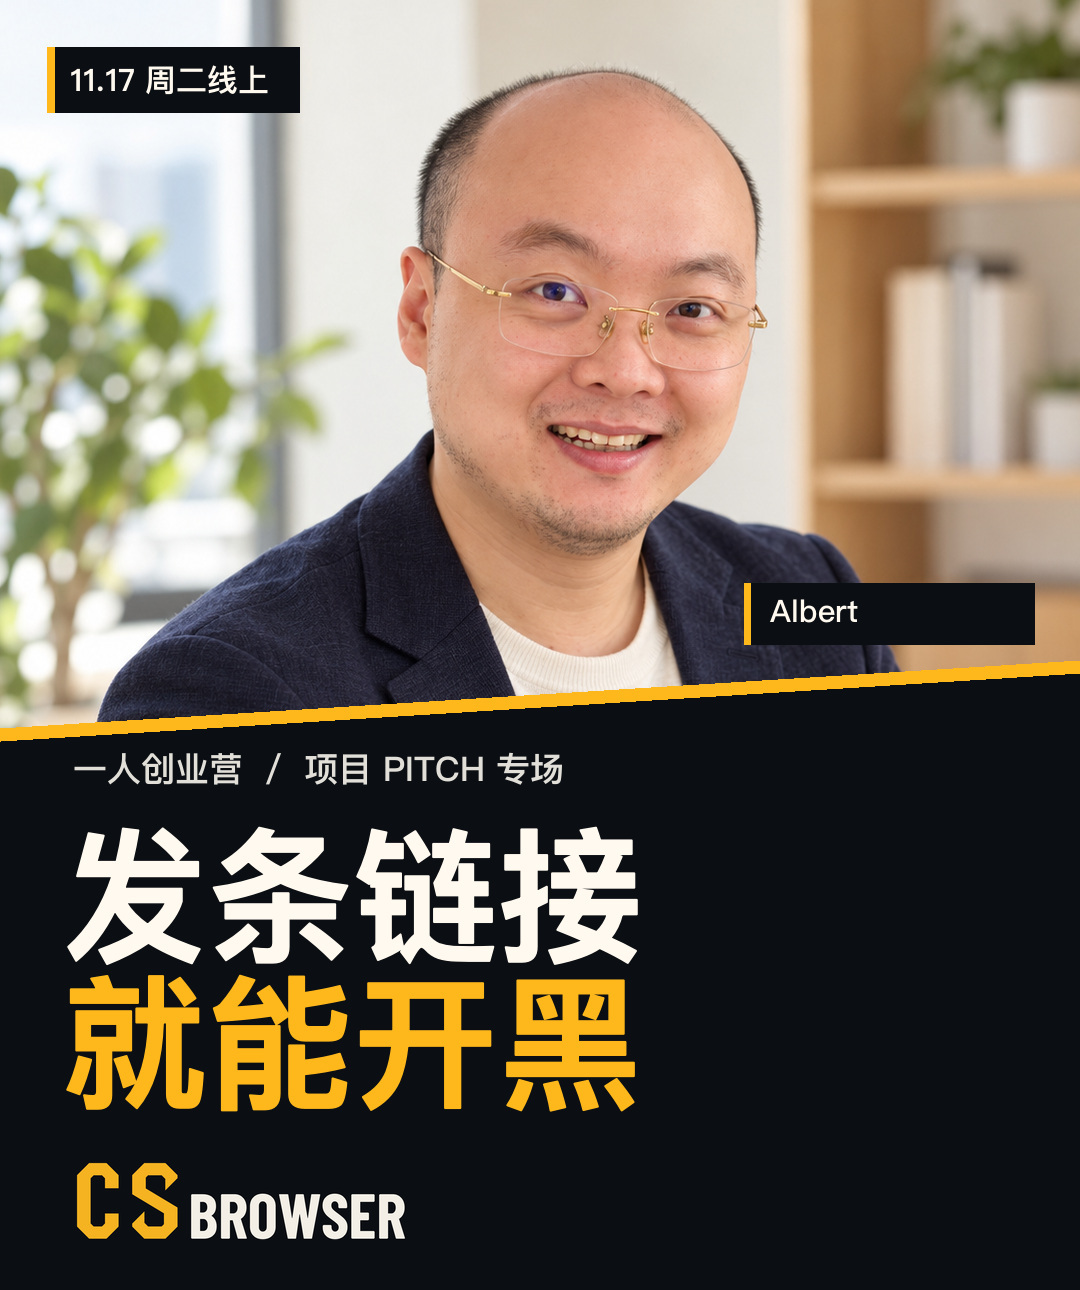
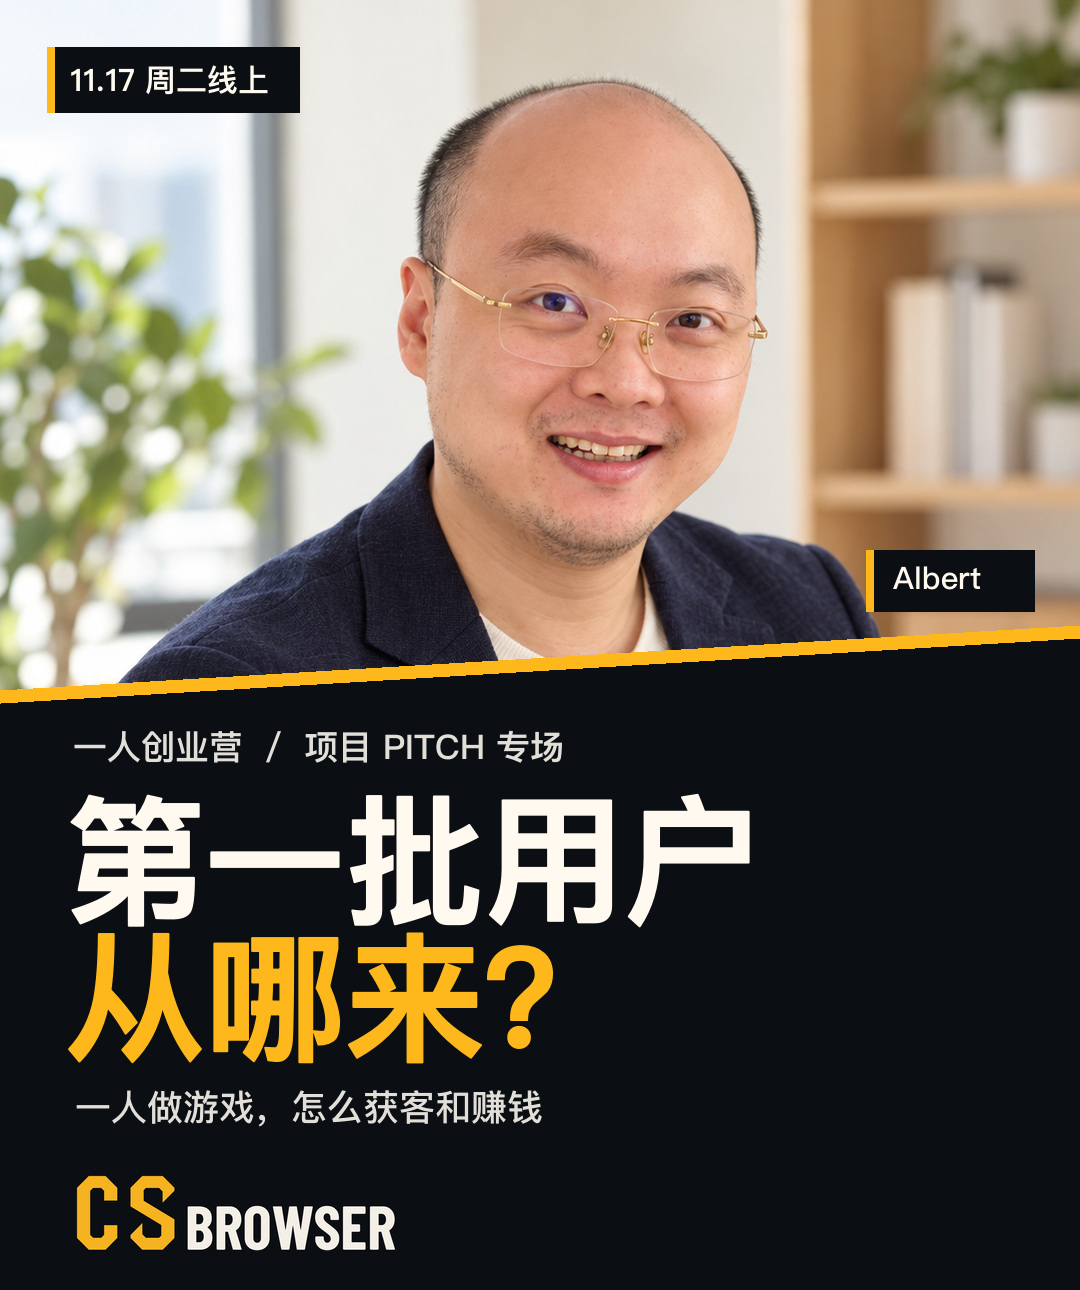
Reframe the CSBrowser article around acquisition and monetization

diff --git a/wechat/csbrowser-opc-pitch-2026-11/index.html b/wechat/csbrowser-opc-pitch-2026-11/index.html
@@ -17,13 +17,13 @@
   </header>
   <main>
     <section class="publish-fields" aria-label="公众号发布字段">
-      <h1 id="article-title">你点一下就能开黑，他提交了近 300 次代码</h1>
+      <h1 id="article-title">用 AI 做出一款游戏，第一批用户从哪来？</h1>
       <button type="button" class="text-button" data-copy="article-title">复制标题</button>
-      <p id="article-summary">没买广告，上线后约 19 天录得 14,777 次会话。接下来，Albert 想试主播联动和排位赛。</p>
+      <p id="article-summary">没买广告，约 19 天录得 14,777 次会话。自然搜索带来了人，这款游戏又打算靠什么赚钱？</p>
       <button type="button" class="text-button" data-copy="article-summary">复制摘要</button>
       <p class="field-links">
         <a href="assets/cover-wide.jpg?v=albert" download>下载横版封面</a>
-        <a href="assets/cover-portrait.jpg?v=albert" download>下载竖版封面</a>
+        <a href="assets/cover-portrait.jpg?v=first-users" download>下载竖版封面</a>
         <a href="https://jracademy.ai/events/6adf13c703f9f9e30beea96b">活动报名页</a>
         <a href="https://playcsbrowser.com/">项目 Demo</a>
       </p>
@@ -32,44 +32,43 @@
 
     <article id="article" aria-label="公众号正文预览">
       <section style="color:#222222;font-size:16px;line-height:1.85;letter-spacing:0.3px;overflow-wrap:break-word;">
-        <p style="margin:0 0 14px;">群里刚喊完「来一把」，就有人问下哪个客户端，还有人手上只有手机。游戏还没开，队伍已经快散了。</p>
-        <p style="margin:0 0 14px;">Albert做了个网页。<strong>房间链接往群里一发，电脑、手机点开就能进同一局。</strong>不用装客户端，也不用注册账号。</p>
-        <p style="margin:0 0 20px;">这款游戏叫 <strong>CSBrowser</strong>。背后没有一支游戏开发团队。负责把它上线的，是Albert和他调度的多个 AI 编码代理。</p>
+        <p style="margin:0 0 14px;">用 AI 做出一个产品，按下发布键。第二天打开后台，<strong>第一批用户从哪来？</strong></p>
+        <p style="margin:0 0 14px;">Albert 做了一款叫 <strong>CSBrowser</strong> 的联机游戏。没买广告，上线后的首个约 19 天，GA4 记下了 <strong>14,777 次会话</strong>。最大的流量来源是自然搜索。</p>
+        <p style="margin:0 0 20px;">有人搜到，有人点开。接下来，游戏要怎么让他们回来打第二局？等真有了回头客，又能靠什么赚钱？</p>
 
-        <p style="margin:0 0 24px;text-align:center;"><img src="assets/cover-wide.jpg?v=albert" width="1410" height="600" alt="发条链接就能开黑。11 月 17 日 CSBrowser 项目 Pitch" style="display:block;width:100%;max-width:100%;height:auto;"></p>
+        <p style="margin:0 0 24px;text-align:center;"><img src="assets/cover-wide.jpg?v=first-users" width="1410" height="600" alt="第一批用户从哪来？11 月 17 日 CSBrowser 项目 Pitch" style="display:block;width:100%;max-width:100%;height:auto;"></p>
 
-        <h2 style="margin:30px 0 15px;color:#161616;font-size:22px;line-height:1.45;font-weight:700;border-left:4px solid #db980d;padding-left:12px;">一条房间链接，从群聊发到直播间</h2>
-        <p style="margin:0 0 14px;">一个朋友用 Windows，一个用 Mac，还有人只有手机。原本要先问「你能玩吗」，现在只需要把自己的房间链接发过去。Linux 上也能玩。</p>
-        <p style="margin:0 0 18px;">把群聊换成直播间，这条链接还有另一种用法。主播发房间链接，观众就有机会从看直播变成和主播打一局。这是Albert接下来想试的增长方式。</p>
-        <p style="margin:0 0 7px;text-align:center;"><img src="assets/gameplay.jpg" width="1200" height="675" alt="CSBrowser 游戏实机画面" style="display:block;width:100%;max-width:100%;height:auto;"></p>
-        <p style="margin:0 0 25px;color:#626262;font-size:13px;text-align:center;">CSBrowser 实机画面 · 项目官网</p>
-
-        <h2 style="margin:30px 0 15px;color:#161616;font-size:22px;line-height:1.45;font-weight:700;border-left:4px solid #db980d;padding-left:12px;">多个 AI 同时写代码，谁来验收？</h2>
-        <p style="margin:0 0 14px;">一条邀请链接发出去，房间要开得起来，手机和电脑要能连进同一局，打完还得能看录像。这几件事得接得上。</p>
-        <p style="margin:0 0 14px;">做过十多年 Web 全栈开发的Albert，把任务拆给多个 AI 编码代理并行做，再组织交叉审查和自动化测试。做出联机、邀请、录像的主体功能，约一个月里留下了 <strong>277 次左右的代码提交</strong>。</p>
-        <p style="margin:0 0 20px;">开房也有个具体的成本选择。服务托管在 Cloudflare，有人要玩时才启动房间，成本随用量走。</p>
-
-        <section style="margin:0 0 26px;padding:16px 18px;background-color:#f6f3eb;text-align:center;">
-          <p style="margin:0 0 9px;"><img src="assets/founder.jpg" width="900" height="1125" alt="CSBrowser 创始人 Albert" style="display:block;width:100%;max-width:220px;height:auto;margin:0 auto;"></p>
-          <p style="margin:0;font-size:15px;font-weight:700;">Albert</p>
-          <p style="margin:0;color:#54504a;font-size:13px;">CSBrowser 创始人 · AI Engineer · 独立开发者</p>
-        </section>
-
-        <h2 style="margin:30px 0 15px;color:#161616;font-size:22px;line-height:1.45;font-weight:700;border-left:4px solid #db980d;padding-left:12px;">搜索带来了人，谁会回来打第二局？</h2>
-        <p style="margin:0 0 14px;">2026 年 10 月 2 日，CSBrowser 公开上线。没做付费投放，自然搜索成了最大流量来源。</p>
+        <h2 style="margin:30px 0 15px;color:#161616;font-size:22px;line-height:1.45;font-weight:700;border-left:4px solid #db980d;padding-left:12px;">第一批访问，从搜索框里来</h2>
+        <p style="margin:0 0 14px;">CSBrowser 在 10 月 2 日公开上线。它解决的是一件小事：朋友想开黑，有人用电脑，有人只有手机。把房间链接发出去，大家打开浏览器就能进同一局，免装客户端，也免注册。</p>
         <section style="margin:0 0 17px;padding:14px 18px;background-color:#fff3d6;border-left:3px solid #db980d;">
           <p style="margin:0 0 3px;"><strong style="font-size:22px;">14,777</strong> 次会话</p>
           <p style="margin:0 0 4px;"><strong style="font-size:22px;">12,308</strong> 个用户标识</p>
           <p style="margin:0;color:#62543a;font-size:13px;">项目方 GA4 数据 · 上线后首个约 19 天统计窗口</p>
         </section>
-        <p style="margin:0 0 14px;">有人搜到游戏、打开网页。接下来要看，他们会不会进房间，打完一局会不会约人再来。</p>
-        <p style="margin:0 0 18px;">Albert计划先试主播联动和排位赛。他也给将来的付费玩法划了条线：<strong>只卖外观，不卖数值。</strong>外观、赛季内容和活动赞助，是他打算逐步验证的收入来源。</p>
-        <p style="margin:0 0 18px;">如果主播房间真热闹起来，一个人怎么管？他还在规划队伍语音、实时翻译和 AI 辅助识别辱骂。</p>
+        <p style="margin:0 0 18px;">这个产品的获客逻辑，可以从一个场景看懂：有人想找个能直接玩的网页游戏，搜到 CSBrowser，点开就能试。接下来值得追的数字，是有多少人真的进了房间、打完了第一局。</p>
+
+        <p style="margin:0 0 7px;text-align:center;"><img src="assets/gameplay.jpg" width="1200" height="675" alt="CSBrowser 游戏实机画面" style="display:block;width:100%;max-width:100%;height:auto;"></p>
+        <p style="margin:0 0 25px;color:#626262;font-size:13px;text-align:center;">CSBrowser 实机画面 · 项目官网</p>
+
+        <h2 style="margin:30px 0 15px;color:#161616;font-size:22px;line-height:1.45;font-weight:700;border-left:4px solid #db980d;padding-left:12px;">让人打完第一局，再给个理由回来</h2>
+        <p style="margin:0 0 14px;">Albert 接下来想试两件事。<strong>主播联动</strong>解决的是谁来拉人开第一局。主播把链接往直播间一发，观众就有机会从看比赛变成和主播同局。</p>
+        <p style="margin:0 0 18px;"><strong>排位赛</strong>则用来验证回访。如果有人打完一局，还想约队友一起冲下一个段位，游戏就有机会从「搜到顺手玩一次」变成「下次还约这儿」。</p>
+
+        <h2 style="margin:30px 0 15px;color:#161616;font-size:22px;line-height:1.45;font-weight:700;border-left:4px solid #db980d;padding-left:12px;">这款游戏，打算靠什么赚钱？</h2>
+        <p style="margin:0 0 14px;">Albert 先看两类人愿不愿意买单。<strong>玩家</strong>会为外观和赛季内容付费吗？他给自己定的原则是「只卖外观，不卖数值」。如果比赛能聚起一批稳定参与的人，<strong>品牌</strong>会愿意赞助吗？</p>
+        <p style="margin:0 0 14px;">这些收入来源都还在探索。先把回访跑出来，才知道该优先做什么付费内容、哪种活动有机会拉到赞助。</p>
+        <p style="margin:0 0 22px;">成本也要算。Albert 统筹多个 AI 编码代理，约一个月做出联机、邀请和录像的主体功能。游戏托管在 Cloudflare，有人需要时才开房。对一个人运营的产品来说，开发和房间成本都关系到这门生意能不能做下去。</p>
+
+        <section style="margin:0 0 26px;padding:16px 18px;background-color:#f6f3eb;text-align:center;">
+          <p style="margin:0 0 9px;"><img src="assets/founder.jpg" width="900" height="1125" alt="CSBrowser 创始人 Albert" style="display:block;width:100%;max-width:220px;height:auto;margin:0 auto;"></p>
+          <p style="margin:0;font-size:15px;font-weight:700;">Albert</p>
+          <p style="margin:0;color:#54504a;font-size:13px;">CSBrowser 创始人 · 10 年以上 Web 全栈开发经验</p>
+        </section>
         <p style="margin:0 0 24px;"><img src="assets/csbrowser-logo.png" width="1200" height="360" alt="CSBrowser 项目标志" style="display:block;width:100%;max-width:100%;height:auto;"></p>
 
-        <h2 style="margin:30px 0 15px;color:#161616;font-size:22px;line-height:1.45;font-weight:700;border-left:4px solid #db980d;padding-left:12px;">11 月 17 日，来问他下一步怎么选</h2>
-        <p style="margin:0 0 14px;">Albert会带着已经上线的 CSBrowser 来做一场项目 Pitch，聊为什么选浏览器、一个人怎么管多个 AI 写代码，以及来了第一波访问之后，最想先弄明白什么。</p>
-        <p style="margin:0 0 20px;">如果你也在做自己的产品，问答时可以把问题问具体一点。<strong>AI 写的代码，你最不放心哪一段？只有一个人，下周是先做新功能，还是去找第一批回头客？</strong></p>
+        <h2 style="margin:30px 0 15px;color:#161616;font-size:22px;line-height:1.45;font-weight:700;border-left:4px solid #db980d;padding-left:12px;">11 月 17 日，带一个生意问题来</h2>
+        <p style="margin:0 0 14px;">这次匠人学院一人创业营（OPC）项目 Pitch，Albert 会带着已经上线的 CSBrowser，讲产品怎么做出来、最早的访问从哪来，以及他下一步想验证什么。</p>
+        <p style="margin:0 0 20px;">如果你也有个用 AI 做出来的产品，可以在问答时直接问：<strong>预算只够试一件事，你会先做搜索、找主播，还是先问玩家愿意为什么付钱？</strong></p>
 
         <section style="margin:0;padding:22px 18px;background-color:#fff3d6;text-align:center;">
           <p style="margin:0 0 13px;"><img src="assets/jr-academy.png" width="640" height="230" alt="匠人学院 JR Academy" style="display:block;width:144px;max-width:100%;height:auto;margin:0 auto;"></p>
